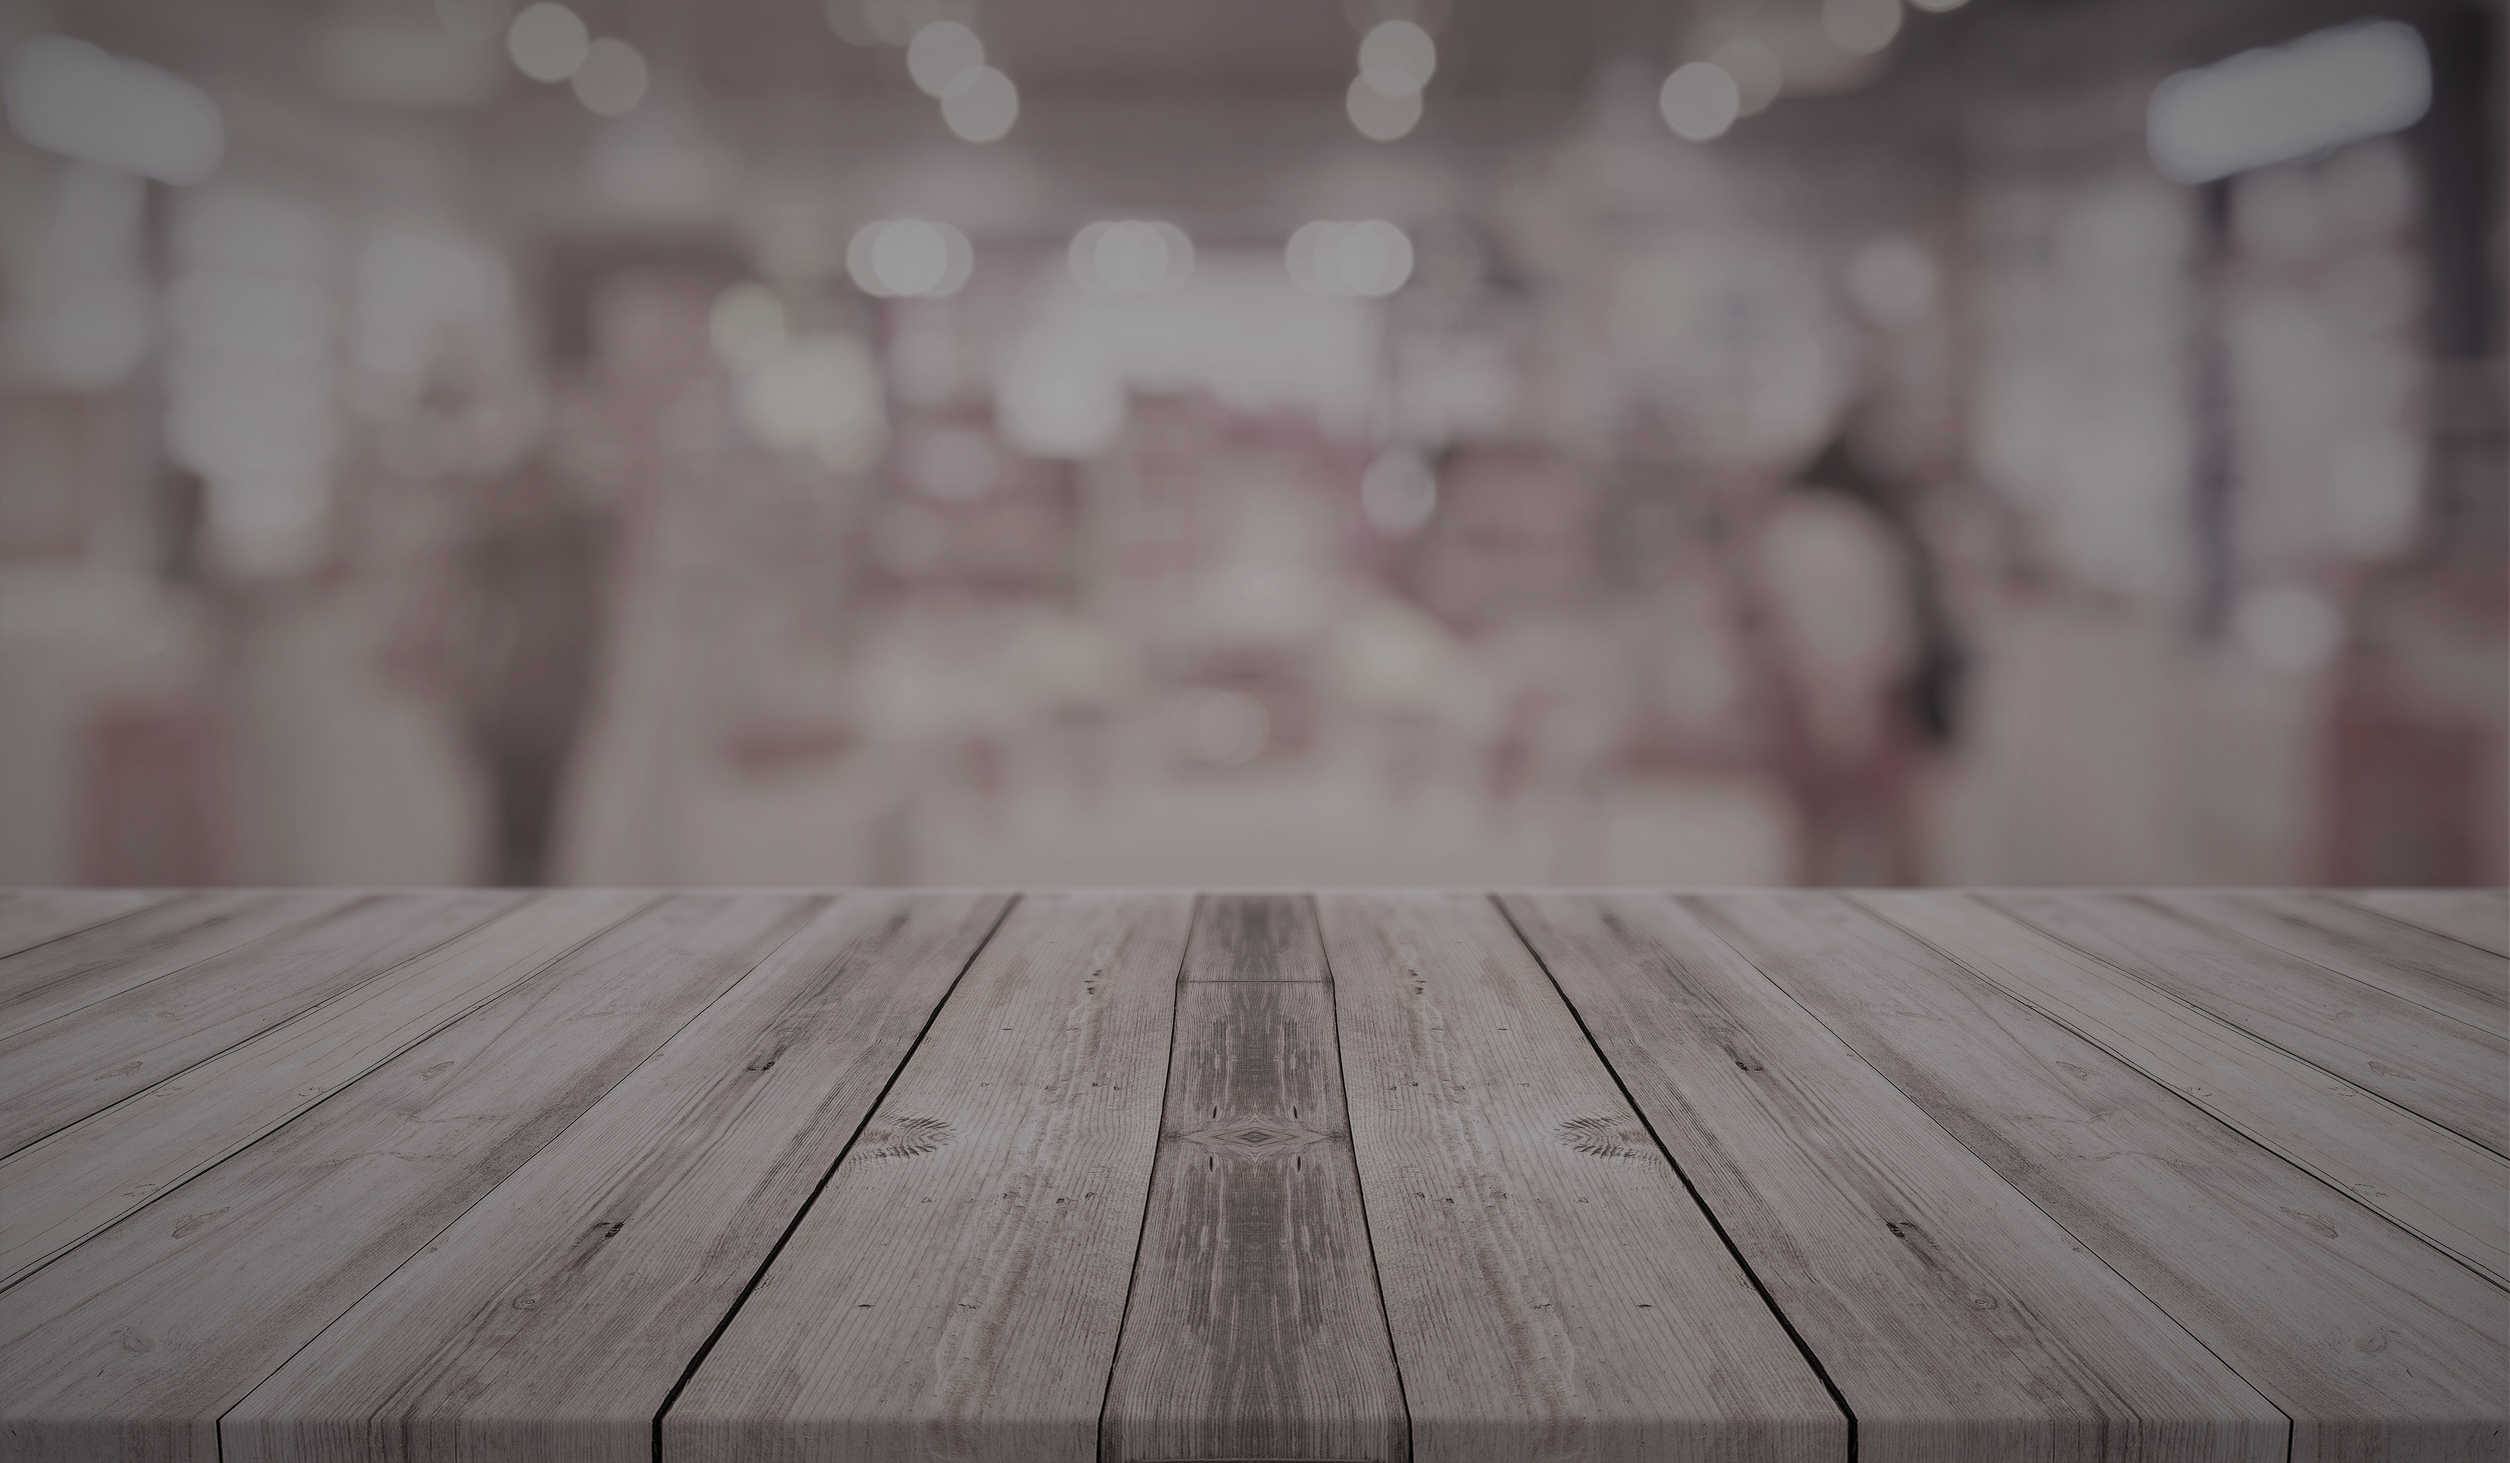
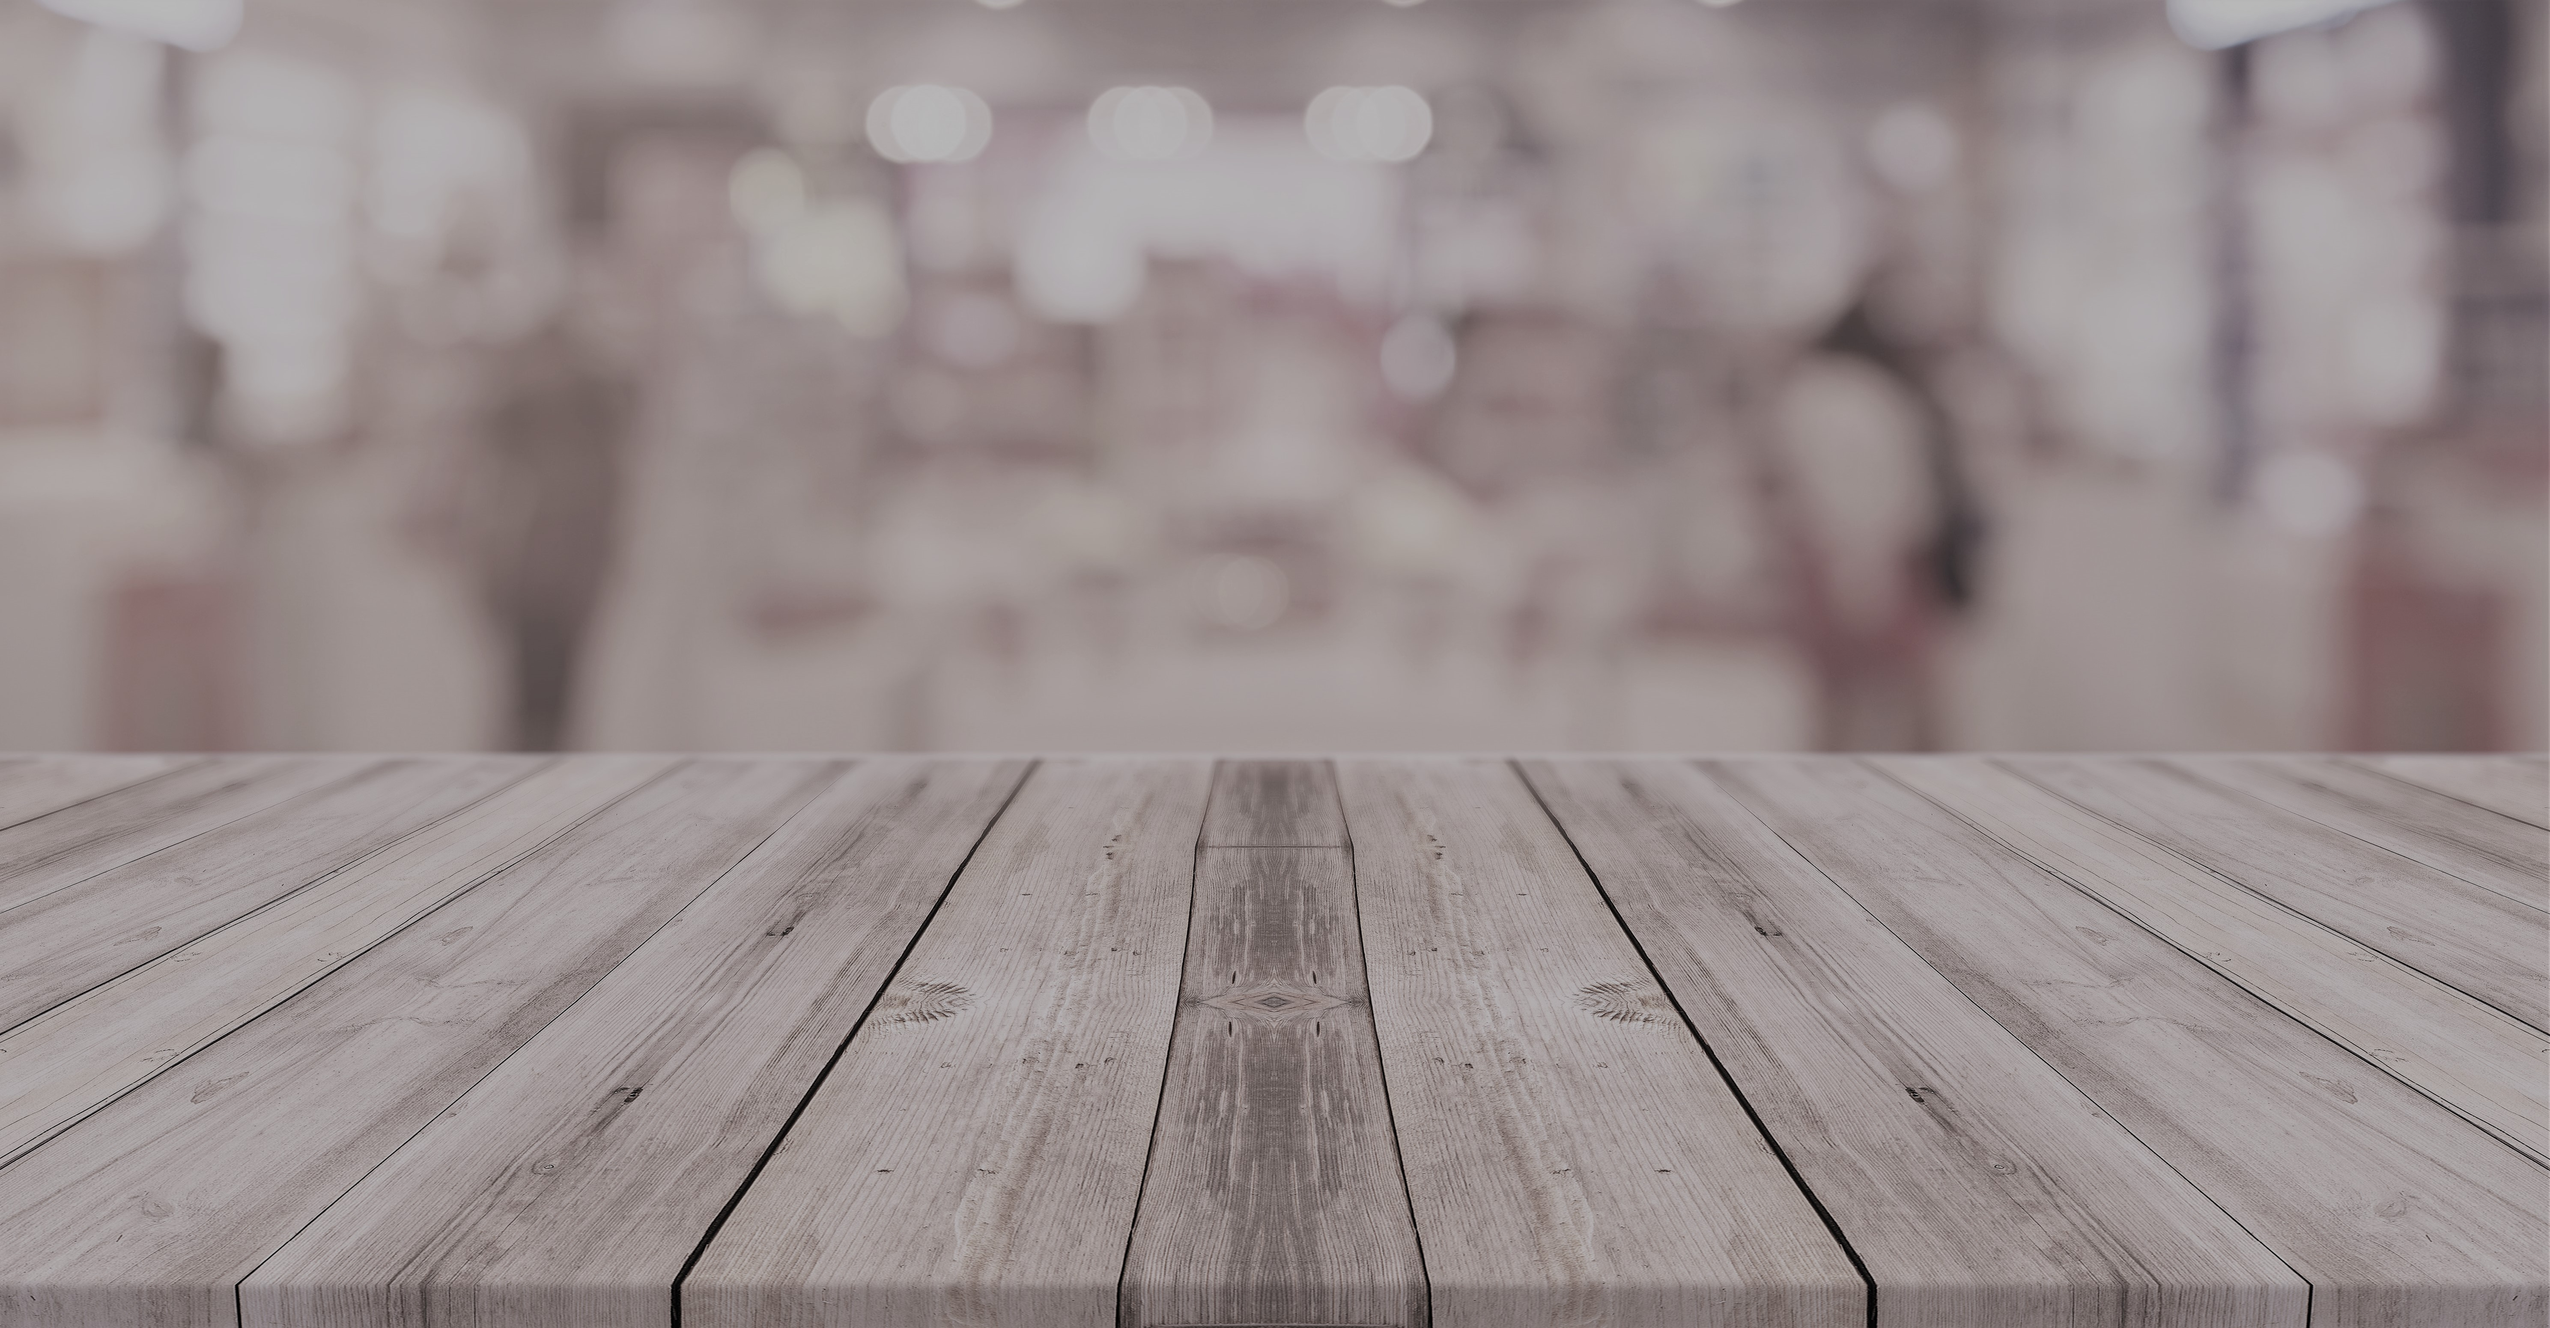
Complete title section

diff --git a/index.html b/index.html
@@ -18,10 +18,12 @@
 <body>
     <!-- HOME -->
     <header id="home">
-        <div class="title-text">
-            <h1 class="title">Bethany</h1>
-            <h1 class="title">Shelton</h1>
-            <h3 class="subtitle">WEB DEVELOPER</h3>
+        <div class="background-img">
+            <div class="title-text">
+                <h1 class="title">Bethany</h1>
+                <h1 class="title">Shelton</h1>
+                <h3 class="subtitle">WEB DEVELOPER</h3>
+            </div>
         </div>
         <!-- NAVBAR -->
         <nav>

diff --git a/styles/styles.css b/styles/styles.css
@@ -19,13 +19,19 @@ body {
 	position: relative;
 }
 
-.title-text {
-	padding-top: 17%;
-	background: url(/images/home-img.jpg) no-repeat center center;
+.background-img {
+	height: 100vh;
+	background: url(/images/home-img.jpg) no-repeat center center fixed;
 	-webkit-background-size: cover;
 	-moz-background-size: cover;
 	-o-background-size: cover;
 	background-size: cover;
+}
+
+.title-text {
+	padding-top: 14%;
+	padding-bottom: 12%;
+	text-shadow: 1px 1px 2px #1f1f33;
 }
 
 .title {
